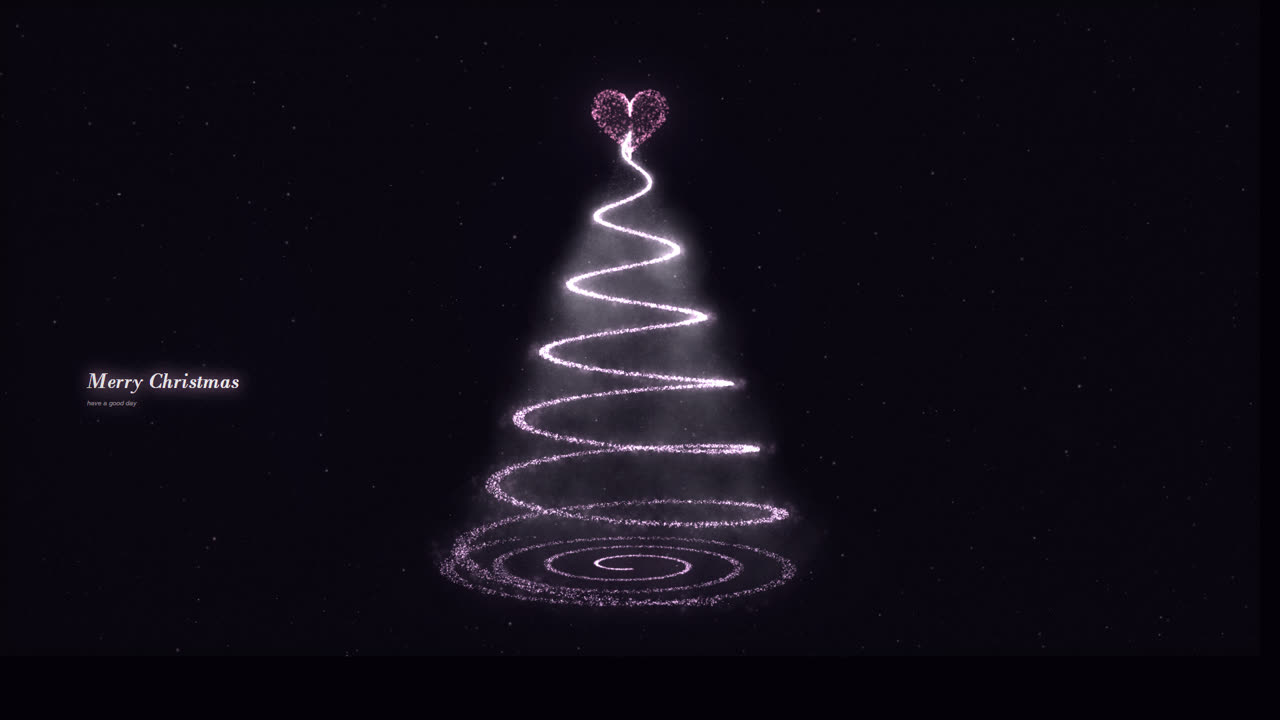
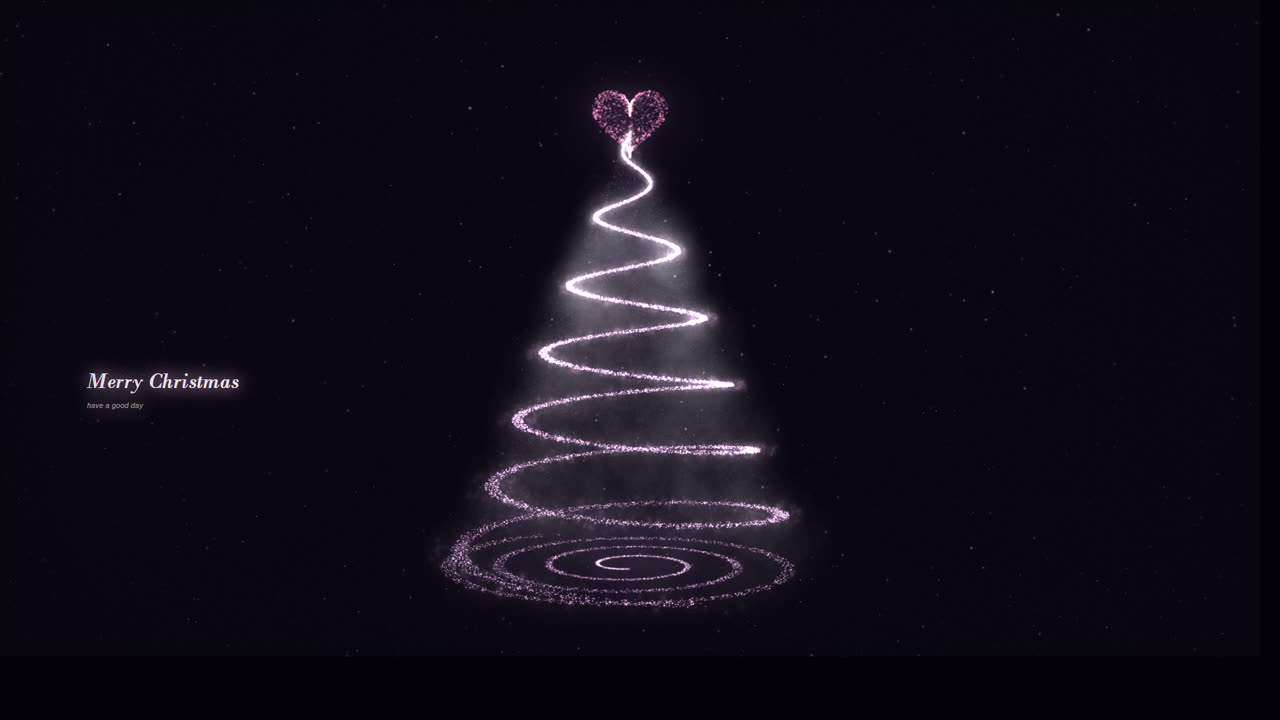
烟花改小、文案副标加深，更新预览图

diff --git a/index.html b/index.html
@@ -366,10 +366,10 @@
       const left = rnd() < 0.5;
       S.bursts.push({
         t,
-        x: (left ? 0.10 + rnd() * 0.22 : 0.68 + rnd() * 0.22) * W,
-        y: (0.20 + rnd() * 0.30) * H,
+        x: (left ? 0.07 + rnd() * 0.17 : 0.74 + rnd() * 0.19) * W,
+        y: (left ? 0.17 + rnd() * 0.20 : 0.26 + rnd() * 0.32) * H,
         color: rnd() < 0.5 ? 'gold' : 'pink',
-        scale: K * (0.5 + rnd() * 0.3),
+        scale: K * (0.05 + rnd() * 0.09),
         seed: Math.floor(rnd() * 1e6)
       });
       t += CFG.fireMin + rnd() * (CFG.fireMax - CFG.fireMin);
@@ -521,13 +521,13 @@
       const p = age / 1.25;
       const r2 = mulberry32(b.seed);
       const cols = b.color === 'gold' ? [PAL.gold, PAL.jade] : [PAL.heart, PAL.hibHi];
-      for (let i = 0; i < 52; i++) {
-        const ang = (i / 52) * TAU + r2() * 0.3;
+      for (let i = 0; i < 44; i++) {
+        const ang = (i / 44) * TAU + r2() * 0.3;
         const spd = b.scale * (0.25 + Math.pow(r2(), 0.6) * 0.85);
         const dx = Math.cos(ang) * spd * p * 1.35;
-        const dy = Math.sin(ang) * spd * p * 1.35 + b.scale * 0.55 * p * p;
+        const dy = Math.sin(ang) * spd * p * 1.35 + b.scale * 0.65 * p * p;
         const a = Math.pow(1 - p, 1.7) * (0.5 + r2() * 0.5);
-        const sz = K * (0.004 + r2() * 0.006) * (1.4 - p * 0.6);
+        const sz = K * (0.0020 + r2() * 0.0032) * (1.4 - p * 0.6);
         ctx.globalAlpha = clamp(a * 0.85, 0, 1);
         ctx.fillStyle = rgba(cols[i % 2], 0.85);
         ctx.beginPath();
@@ -542,7 +542,7 @@
     if (fin <= 0) return;
     const e = smooth(fin);
     const fs1 = Math.min(K * 0.034, W * 0.045);
-    const fs2 = fs1 * 0.30;
+    const fs2 = fs1 * 0.34;
     const x = W * 0.068;
     const y = BASEY - TH * 0.42;
     const rise = (1 - e) * fs1 * 0.5;
@@ -567,7 +567,7 @@
 
     ctx.shadowBlur = fs2 * 1.6;
     ctx.font = `italic ${fs2}px "Helvetica Neue",Helvetica,Arial,"Microsoft YaHei",sans-serif`;
-    ctx.fillStyle = `rgba(255,238,248,${0.55 * e})`;
+    ctx.fillStyle = `rgba(255,238,248,${0.62 * e})`;
     ctx.fillText(TEXT.sub, x + fs1 * 0.05, y + rise + fs2 * 2.6);
 
     ctx.restore();
@@ -672,7 +672,7 @@
     S.bursts.push({
       t: API.time + 0.02, x, y,
       color: Math.random() < 0.5 ? 'gold' : 'pink',
-      scale: K * 0.45,
+      scale: K * 0.07,
       seed: Math.floor(Math.random() * 1e6)
     });
     if (S.bursts.length > 140) S.bursts.splice(80, 1);
